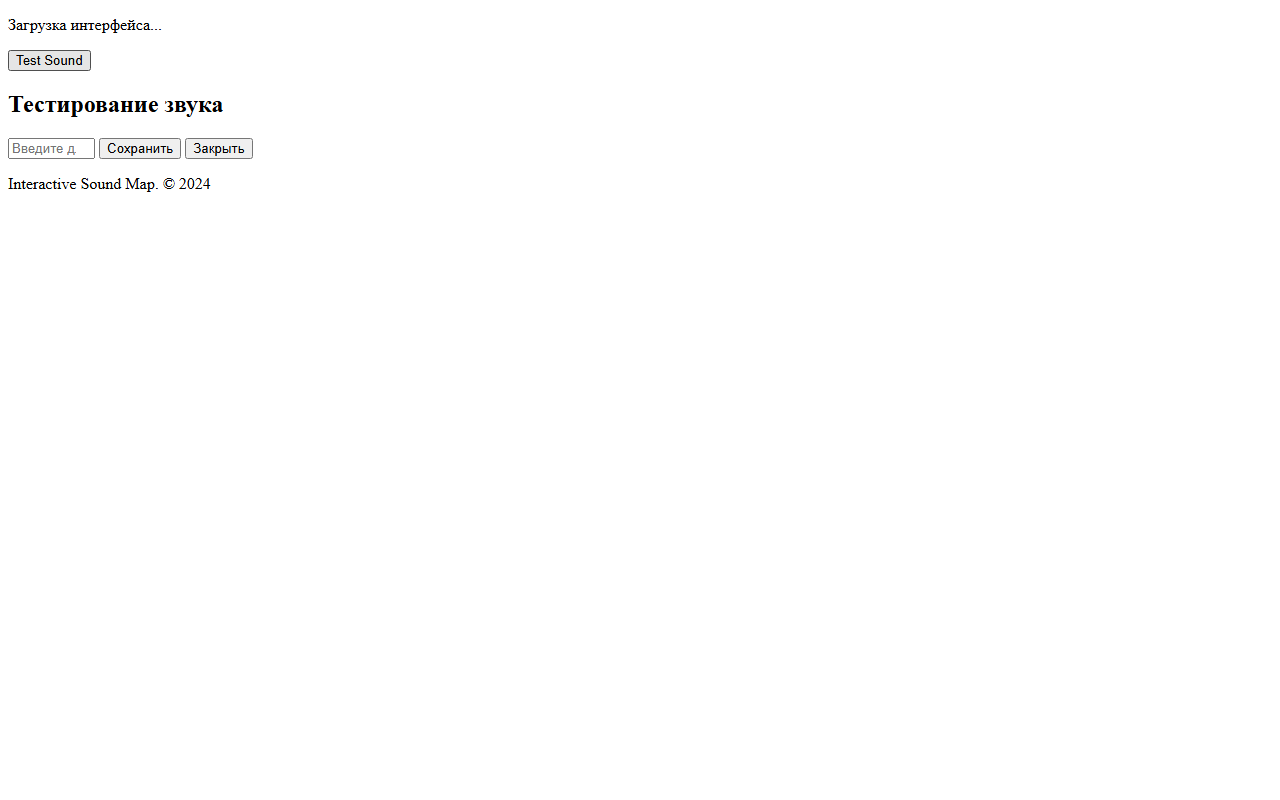
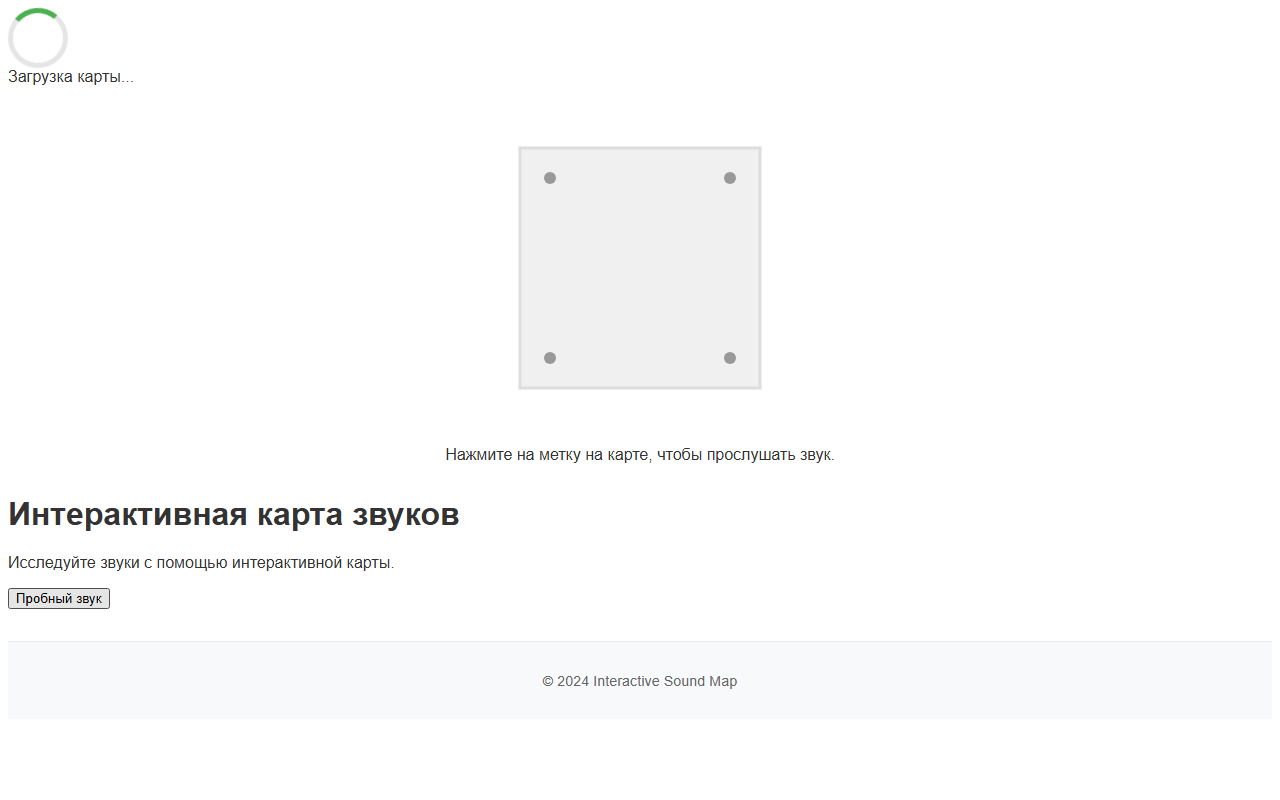
Финальная версия проекта: улучшена адаптивность, анимации, smooth scrolling, фиксированный хедер и юзабилити. Добавлены интерактивные элементы и улучшены визуальные эффекты.

diff --git a/styles/main.css b/styles/main.css
@@ -1,20 +1,47 @@
+html, body {
+  scroll-behavior: smooth;
+  margin: 0;
+}
+
+body {
+  color: #333333;
+  background: #ffffff;
+  font-family: Arial, sans-serif;
+  overflow-x: hidden;
+}
+
+.container {
+  width: 100%;
+  max-width: 1200px;
+  margin: 0 auto;
+  padding: 0 2rem;
+  min-height: 100vh;
+  display: flex;
+  flex-direction: column;
+  position: relative;
+}
+
 .loading-indicator {
   display: flex;
   justify-content: center;
   align-items: center;
   min-height: 100vh;
-  background: #f5f5f5;
+  background: #ffffff;
   padding: 2rem;
   position: fixed;
   top: 0;
   left: 0;
   width: 100%;
   z-index: 1000;
+  flex-direction: column;
+  align-items: center;
+  background-color: rgba(255, 255, 255, 0.95);
+  backdrop-filter: blur(5px);
 }
 
 .spinner {
-  width: 50px;
-  height: 50px;
+  width: 60px;
+  height: 60px;
   border: 5px solid rgba(0, 0, 0, 0.1);
   border-radius: 50%;
   border-top-color: #4CAF50;
@@ -24,40 +51,175 @@
 .spinner.complete {
   border-top-color: #4CAF50;
   animation: complete-spin 0.5s ease-out forwards;
+  opacity: 0;
+}
+
+.loading-text {
+  color: #333333;
+  font-weight: 600;
+  margin-top: 1rem;
+  font-size: 1.2rem;
+}
+
+.map-placeholder {
+  margin: 2rem 0;
+  text-align: center;
+  flex: 1;
+}
+
+.map-skeleton {
+  margin: 1rem auto;
+  max-width: 400px;
+  margin-bottom: 1.5rem;
+  background: #f0f0f0;
+  border-radius: 8px;
+  padding: 1rem;
+  box-shadow: 0 2px 8px rgba(0, 0, 0, 0.1);
+  display: flex;
+  justify-content: center;
+  align-items: center;
+}
+
+.loading-text-placeholder {
+  color: #333333;
+  font-size: 1.1rem;
+  margin-top: 1rem;
+  max-width: 80%;
+  font-weight: 600;
+}
+
+.button-primary {
+  display: block;
+  margin: 1rem auto;
+  background: #f0f0f0;
+  color: #333333;
+  border: 2px solid #4CAF50;
+  padding: 0.8rem 1.5rem;
+  border-radius: 8px;
+  cursor: pointer;
+  transition: all 0.3s ease;
+  width: 80%;
+  font-size: 1rem;
+  box-shadow: 0 2px 4px rgba(0, 0, 0, 0.1);
+  position: relative;
+  overflow: hidden;
+}
+
+.button-primary:hover {
+  background: #4CAF50;
+  color: white;
+  transform: translateY(-2px);
+  box-shadow: 0 4px 8px rgba(0, 0, 0, 0.2);
+}
+
+.button-primary:active {
+  transform: translateY(0);
+}
+
+.button-primary:focus-visible {
+  outline: 2px solid #2E7D32;
+  outline-offset: 2px;
+}
+
+.content-section {
+  padding: 2rem 0;
+  text-align: center;
+  background: #f8f9fa;
+  border-top: 1px solid #e9ecef;
+  border-bottom: 1px solid #e9ecef;
+}
+
+.content-section h1 {
+  margin-bottom: 1rem;
+  font-size: 2.25rem;
+  position: sticky;
+  top: 0;
+  background-color: rgba(248, 249, 250, 0.9);
+  z-index: 50;
+}
+
+.footer {
+  padding: 1rem;
+  text-align: center;
+  background: #f8f9fa;
+  margin-top: 2rem;
+  border-top: 1px solid #e9ecef;
+}
+
+.footer-text {
+  font-size: 0.9rem;
+  color: #666;
+}
+
+.tooltip {
+  position: absolute;
+  background: #4CAF50;
+  color: white;
+  padding: 8px 16px;
+  border-radius: 4px;
+  font-size: 0.9rem;
+  pointer-events: none;
+  display: none;
+  z-index: 100;
+  box-shadow: 0 2px 4px rgba(0, 0, 0, 0.2);
+  border: none;
+}
+
+.tooltip-container {
+  position: relative;
+}
+
+.sound-marker {
+  cursor: pointer;
+  transition: transform 0.3s ease, fill 0.3s ease;
+}
+
+.sound-marker:hover {
+  transform: scale(1.2);
+  fill: #FF5722;
 }
 
 @keyframes spin {
   to { transform: rotate(360deg); }
 }
 
-@keyframes complete-spin {
-  0% { transform: rotate(0deg); }
-  100% { transform: rotate(360deg); }
+@media (max-width: 768px) {
+  .container {
+    padding: 0 1rem;
+  }
+  .map-skeleton {
+    max-width: 300px;
+    margin: 0.5rem auto;
+  }
+  .button-primary {
+    width: 90%;
+    padding: 0.6rem;
+  }
+  .footer {
+    padding: 0.5rem;
+    margin-top: 1rem;
+    border-top: none;
+    background: transparent;
+  }
+  .footer-text {
+    font-size: 0.8rem;
+  }
+  .content-section h1 {
+    font-size: 1.75rem;
+  }
 }
 
-.ready-banner {
-  background: #e8f5e9;
-  padding: 1.5rem 3rem;
-  border-radius: 12px;
-  box-shadow: 0 4px 12px rgba(0, 0, 0, 0.1);
-  margin: 2rem auto;
-  max-width: 80%;
-  text-align: center;
-  animation: fadeIn 0.5s ease-out;
-}
-
-.checkmark {
-  color: #4CAF50;
-  font-size: 1.5rem;
-  margin: 0.5rem 0;
-  display: inline-block;
-}
-
-@keyframes fadeIn {
-  from { opacity: 0; transform: translateY(20px); }
-  to { opacity: 1; transform: translateY(0); }
-}
-
-.ready-banner .checkmark {
-  display: inline-block;
+@media (max-width: 480px) {
+  .map-skeleton {
+    max-width: 250px;
+  }
+  .button-primary {
+    width: 95%;
+  }
+  body {
+    padding: 1rem;
+  }
+  .loading-text {
+    font-size: 1rem;
+  }
 }

diff --git a/index.html b/index.html
@@ -4,23 +4,33 @@
   <meta charset="UTF-8">
   <meta name="viewport" content="width=device-width, initial-scale=1.0">
   <title>Interactive Sound Map</title>
-  <link rel="stylesheet" href="styles/loading.css">
+  <link rel="stylesheet" href="styles/main.css">
 </head>
 <body>
-  <div class="loading-container" id="loadingOverlay" aria-live="polite" aria-busy="true">
-    <div class="loading-spinner"></div>
-    <div class="loading-text">Загрузка карты звуков...</div>
+  <div class="loading-indicator" id="loadingOverlay">
+    <div class="spinner"></div>
+    <div class="loading-text">Загрузка карты...</div>
   </div>
   
-  <div class="content" id="content-container">
+  <div class="container">
     <div class="map-placeholder">
-      <div class="loading-spinner-small"></div>
+      <div class="map-skeleton" id="map-container">
+        <svg viewBox="0 0 100 100" width="100%" height="100%" style="max-width: 400px; max-height: 300px;">
+          <rect x="10" y="10" width="80" height="80" fill="#f0f0f0" stroke="#ddd" stroke-width="1"/>
+          <circle cx="20" cy="20" r="2" fill="#4CAF50" class="sound-marker"/>
+          <circle cx="80" cy="20" r="2" fill="#4CAF50" class="sound-marker"/>
+          <circle cx="20" cy="80" r="2" fill="#4CAF50" class="sound-marker"/>
+          <circle cx="80" cy="80" r="2" fill="#4CAF50" class="sound-marker"/>
+        </svg>
+      </div>
+      <div class="tooltip-container" id="tooltip-container">
+        <div class="tooltip" id="tooltip">Нажмите на метку для прослушивания звука</div>
+      </div>
       <p class="loading-text-placeholder">Нажмите на метку на карте, чтобы прослушать звук.</p>
     </div>
     
     <div class="content-section">
       <h1>Интерактивная карта звуков</h1>
-      <p>Исследуйте звуки с помощью интерактивной карты.</p>
       <button id="test-sound" class="button">Пробный звук</button>
     </div>
   </div>
@@ -29,6 +39,61 @@
     <p class="footer-text">© 2024 Interactive Sound Map</p>
   </div>
   
-  <script src="scripts/loading.js" defer></script>
+  <script>
+    // Анимация загрузки
+    window.addEventListener('load', () => {
+      const spinner = document.querySelector('.spinner');
+      spinner.classList.add('complete');
+      setTimeout(() => {
+        document.getElementById('loadingOverlay').style.opacity = '0';
+        document.getElementById('loadingOverlay').style.transition = 'opacity 0.5s ease-out';
+        setTimeout(() => {
+          document.getElementById('loadingOverlay').style.display = 'none';
+          document.querySelector('.map-placeholder').style.opacity = '1';
+          document.querySelector('.map-placeholder').style.transition = 'opacity 0.5s ease-out';
+        }, 500);
+      }, 1500);
+    });
+    
+    // Анимация точек на карте
+    document.querySelectorAll('.sound-marker').forEach(marker => {
+      marker.addEventListener('mouseenter', () => {
+        marker.style.transform = 'scale(1.2)';
+        marker.style.transition = 'transform 0.3s ease-out';
+        marker.style.fill = '#FF5722';
+      });
+      marker.addEventListener('mouseleave', () => {
+        marker.style.transform = 'scale(1)';
+        marker.style.fill = '#4CAF50';
+      });
+    });
+    
+    // Показ подсказки
+    const tooltip = document.getElementById('tooltip');
+    const tooltipContainer = document.getElementById('tooltip-container');
+    
+    document.querySelectorAll('.sound-marker').forEach(marker => {
+      marker.addEventListener('mouseenter', () => {
+        tooltip.style.display = 'block';
+        tooltip.style.left = (marker.getBoundingClientRect().left + 10) + 'px';
+        tooltip.style.top = (marker.getBoundingClientRect().top - 28) + 'px';
+      });
+      marker.addEventListener('mouseleave', () => {
+        tooltip.style.display = 'none';
+      });
+    });
+    
+    // Фиксированный хедер
+    const header = document.querySelector('.content-section h1');
+    window.addEventListener('scroll', () => {
+      if (window.scrollY > header.offsetTop) {
+        header.style.position = 'fixed';
+        header.style.top = '0';
+        header.style.backgroundColor = 'rgba(248, 249, 250, 0.9)';
+      } else {
+        header.style.position = 'relative';
+      }
+    });
+  </script>
 </body>
 </html>
